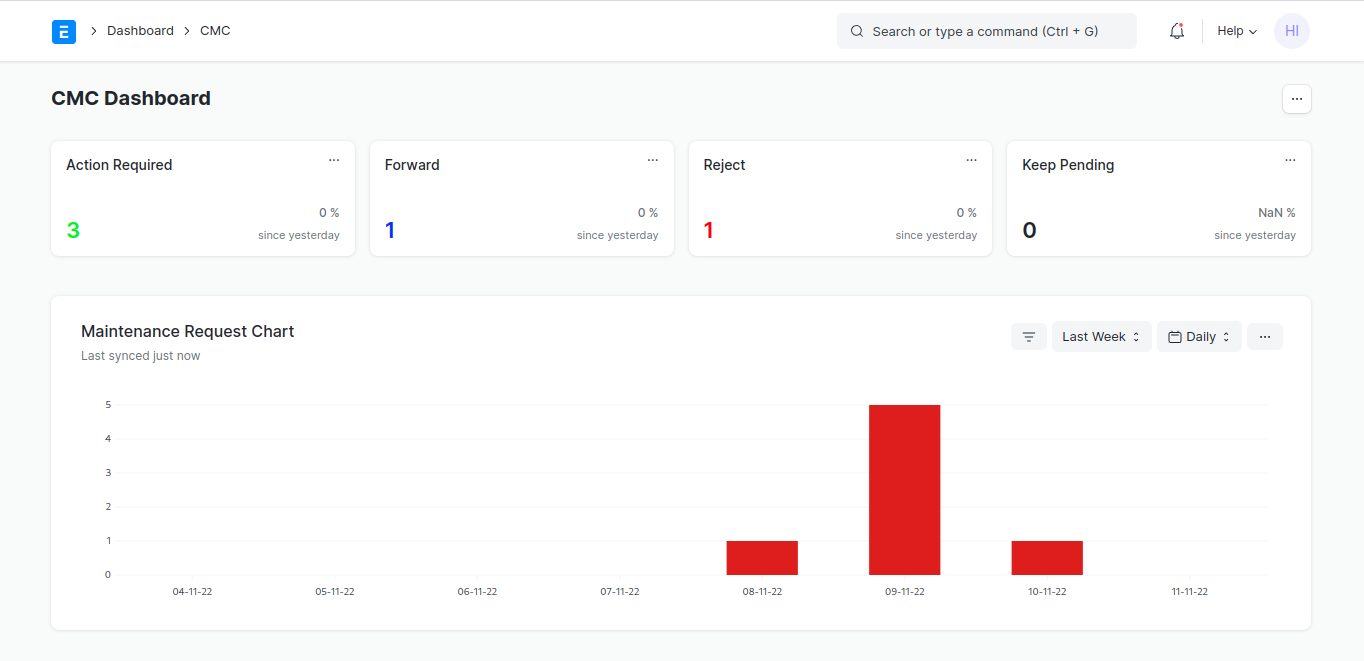
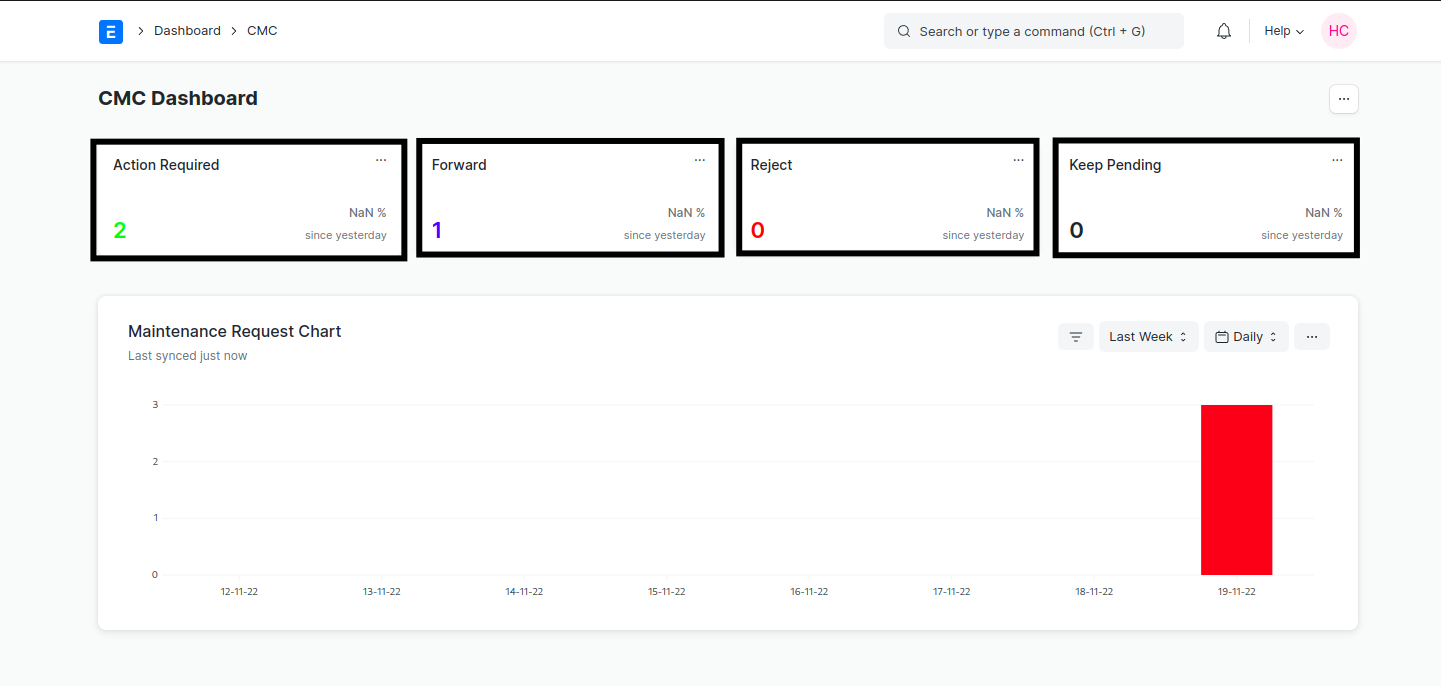
Hod

diff --git a/README.md b/README.md
@@ -90,43 +90,68 @@ CMC Stands for construction & maintanance cell that handles all construction or 
 
 1. Go on [erp.gndec.in](https://erp.gndec.ac.in/)
 
-2. Login with Credentails then click on `Login with LDAP`.
+2. Click on login
 
-3. After login go on `profile logo` and click on `switch to desk`.
+<p align="center">
+  <img src="Images/c1.png" />
+</p>
+
+3. Enter Credentails then click on `Login with LDAP`.
+
+<p align="center">
+  <img src="Images/h1.png" />
+</p>
+
+4. After login go on `profile logo` and click on `switch to desk`.
 
 <p align="center">
   <img src="Images/c5.png" />
 </p>
 
 
-4. Click on the `CMC correspondence` option.
+5. Click on the `CMC correspondence` option.
 
 <p align="center">
   <img src="Images/c6.png" />
 </p>
 
 
-5. Now you will see `HoD Dashboard` where you will find different status of requests like `Action Required`, `Forward`, `Reject` and `Keep Pending`.
+6. Now you will see `HoD Dashboard` where you will find different status of requests like `Action Required`, `Forward`, `Reject` and `Keep Pending`.
 
 <p align="center">
-  <img src="" />
+  <img src="Images/c7.png" />
 </p>
 
 
-6. Under `Action Required` you will find only those requests which is pending for the action taken by HoD.
+7. Under `Action Required` you will find only those requests which is pending for the action taken by HoD.
 
 <p align="center">
   <img src="Images/c8.png" />
 </p>
 
-7. Now when we open the request which is inside `Action Required`. You can click on `Action` button to `Forward` or `Reject` the request based on  details.
+8. Now when we open the request which is inside `Action Required`. You can add comment and click on `Action` button to `Forward` or `Reject` the request based on details.
 
 <p align="center">
   <img src="Images/c9.png" />
 </p>
 
+9. Now after doing "Forward" you will see that the status is now changed of that request. Now click on the above right side site logo to go back to desk.
 
-8. Now according to the `Action` the request will be now shown in `CMC Dashboard` in respective status.
+<p align="center">
+  <img src="Images/h2.png" />
+</p>
+
+10. Click on the `CMC correspondence` option.
+
+<p align="center">
+  <img src="Images/c6.png" />
+</p>
+
+11. Now you can see that the status of the request is changed and you will able to see in "Forward".
+
+<p align="center">
+  <img src="Images/h3.png" />
+</p>
 
 
 ## For SDE
@@ -173,6 +198,7 @@ CMC Stands for construction & maintanance cell that handles all construction or 
 ### How CMC Head will take actions on the request
 
 1. Go on [erp.gndec.in](https://erp.gndec.ac.in/)
+
 
 2. Login with credentails then click on `Login with LDAP`.
 
